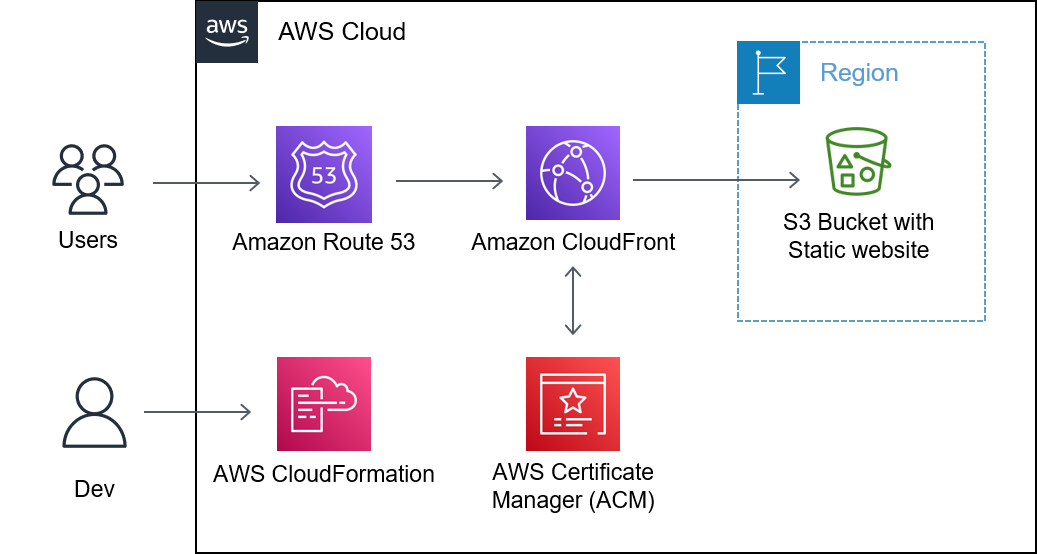
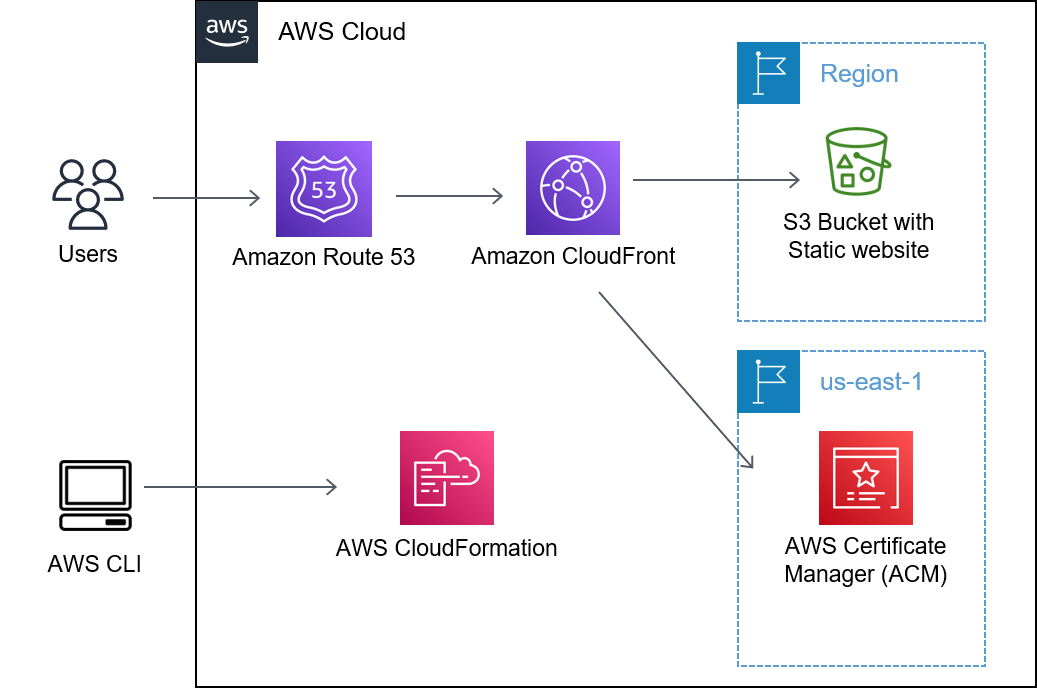
static web

diff --git a/1-static_website/README.md b/1-static_website/README.md
@@ -1,6 +1,6 @@
 # Static Website
 
-The main goal of this lab is to familiarize with the AWS environment and create a basic HTTP static website.
+The main goal of this lab is to familiarize with the AWS environment and create a basic static website with our own DNS and a TLS connection (HTTPS).
 
 ## Tools and components
 
@@ -28,11 +28,11 @@ The following scripts will create a Stack in CloudFormation which:
 
 ## Deployment
 
-Open the file static_website_stack.yml and change the Parameter Values (default):
+Open the file config.mk and change the Parameter Values (default):
 
-- BucketName= _this must be a unique name_
-- DomainName= _URL of your website_
-- CertificateARN= _ARN of your certificate, that you will find in AWS Certificate Manager_
+- AWS_BUCKET_NAME= this must be a unique name
+- AWS_DOMAIN_NAME= URL of your website
+- AWS_CERTIFICATE_ARN= ARN of your certificate, that you will find in AWS Certificate Manager
 
 And then, in the console:
 
@@ -40,7 +40,7 @@ And then, in the console:
 
 ## Test
 
-Browse to the URL you defined as DomainName (with https://)
+Browse to the URL you defined as AWS_DOMAIN_NAME.
 
 ## Cleanup
 
